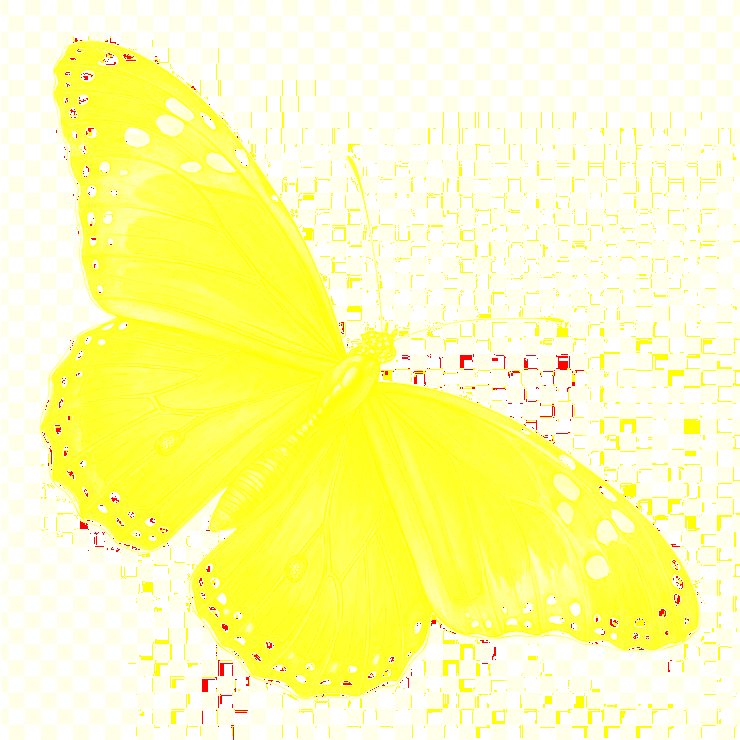
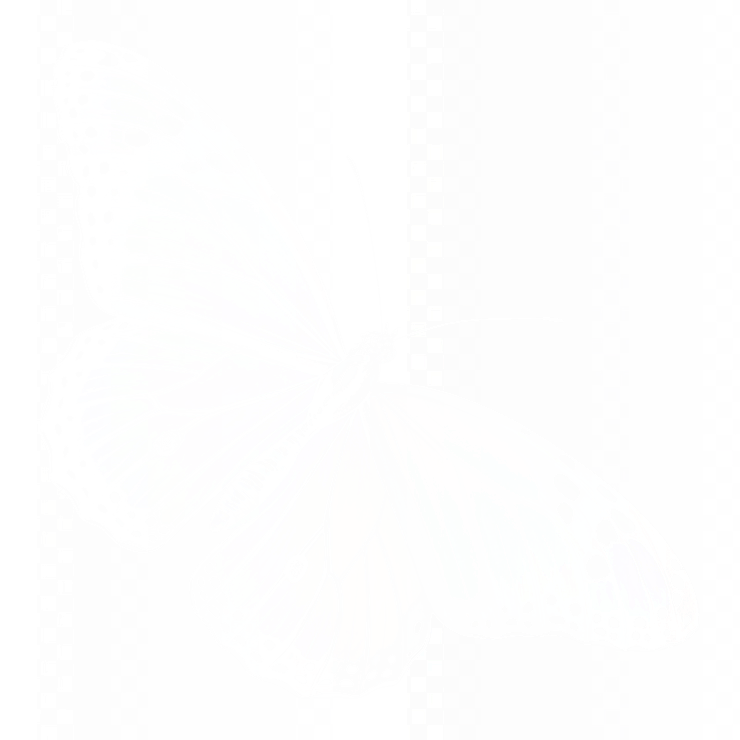
image

diff --git a/src/main/java/org/example/addBrighnessWorker.java b/src/main/java/org/example/addBrighnessWorker.java
@@ -3,13 +3,17 @@ package org.example;
 import java.awt.image.BufferedImage;
 
 public class addBrighnessWorker implements Runnable{
-    BufferedImage img;
+
     private int percent;
     private int left;
     private int right;
+    BufferedImage img;
 
-
-    public addBrighnessWorker(int percent, int percent1, int left, BufferedImage img) {
+    public addBrighnessWorker(int percent, int left, int right, BufferedImage img) {
+        this.percent = percent;
+        this.left = left;
+        this.right = right;
+        this.img = img;
     }
 
     public void run() {

diff --git a/src/main/java/org/example/Main.java b/src/main/java/org/example/Main.java
@@ -10,12 +10,14 @@ public class Main {
 
         try {
             processor.read("img.png");
-            processor.increaseBrightness(-100);
+            processor.increaseBrightnessThreaded(50);
             processor.save("img_copy.png");
         } catch (IOException e) {
             System.out.println("Nie udalo sie odczytac pliku");
         }
+        catch (InterruptedException e) {
+            System.out.println("Nie udalo sie odczytac pliku2");
 
-
+        }
     }
     }
